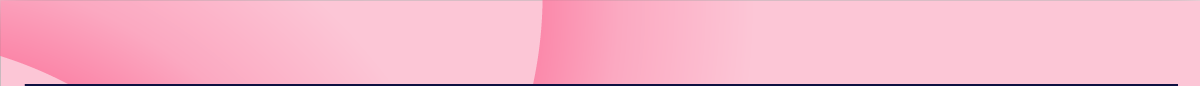
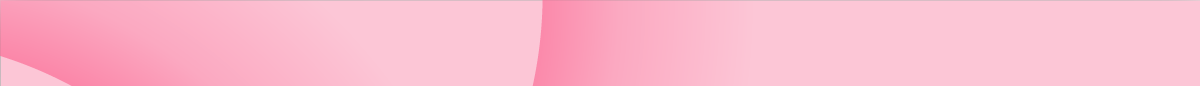
Gmail

Changed region(s): [[0.0, 0.9767, 0.9867, 1.0]]

diff --git a/dia-mujer/dia-mujer.html b/dia-mujer/dia-mujer.html
@@ -8,16 +8,13 @@
 
     <link rel="preconnect" href="https://fonts.googleapis.com">
     <link rel="preconnect" href="https://fonts.gstatic.com" crossorigin>
-    <link
-        href="https://fonts.googleapis.com/css2?family=Lato:ital,wght@0,100;0,300;0,400;0,700;0,900;1,100;1,300;1,400;1,700;1,900&display=swap"
-        rel="stylesheet">
+    <link href="https://fonts.googleapis.com/css2?family=Lato:ital,wght@0,100;0,300;0,400;0,700;0,900;1,100;1,300;1,400;1,700;1,900&display=swap" rel="stylesheet">
 
     <title>Día de la Mujer</title>
     <style>
         @media (prefers-color-scheme: light) {
             body {
                 background-color: #ffffff;
-                /* Color de fondo para el modo claro */
             }
 
             a {
@@ -27,16 +24,12 @@
             p {
                 color: #0F1141;
                 font-family: 'Lato', sans-serif;
-                /* Color de texto para el modo claro */
             }
-
-            /* Agrega otros estilos específicos para el modo claro aquí */
         }
 
         @media (prefers-color-scheme: dark) {
             body {
                 background-color: #333333;
-                /* Color de fondo para el modo oscuro */
             }
 
             a {
@@ -46,15 +39,11 @@
             p {
                 color: #ffffff;
                 font-family: 'Lato', sans-serif;
-                /* Color de texto para el modo oscuro */
             }
-
-            /* Agrega otros estilos específicos para el modo oscuro aquí */
         }
 
         .header {
-            background: url(https://raw.githubusercontent.com/mercadeoBP/mails/main/dia-mujer/src/BgHeader.png) no-repeat center center;
-            background-size: 100% auto;
+            position: relative;
             padding: 10px 20px;
             font-family: 'Lato', sans-serif;
         }
@@ -78,11 +67,43 @@
             font-size: 13px;
             font-weight: 600;
         }
+
         .footer {
-            background: url(https://raw.githubusercontent.com/mercadeoBP/mails/main/dia-mujer/src/BgFooter.png);
-            background-size: cover;
-            padding: 50px 20px 20px 10px;
+            position: relative;
+            padding: 0px 20px 20px 10px;
             font-family: 'Lato', sans-serif;
+            top: -120px;
+        }
+
+        .bg-header img {
+            display: block;
+            width: 100%;
+            height: auto;
+        }
+
+        .bg-footer img {
+            display: block;
+            width: 100%;
+            height: auto;
+        }
+
+        .content {
+            position: relative;
+            z-index: 1;
+        }
+
+        .header-container,
+        .footer-container {
+            position: relative;
+        }
+
+        .header-content,
+        .footer-content {
+            position: absolute;
+            top: 15px;
+            left: 0;
+            width: 100%;
+            z-index: 2;
         }
     </style>
 </head>
@@ -92,27 +113,37 @@
         <!-- Header -->
         <tr>
             <td colspan="2" class="header">
-                <table cellpadding="0" cellspacing="0" width="100%">
-                    <tr>
-                        <td width="50%" align="left" class="logo-header">
-                            <img src="https://raw.githubusercontent.com/mercadeoBP/mails/main/dia-mujer/src/LogoHeader.png" alt="Logo">
-                        </td>
-                        <td width="50%" align="right" class="slogan">
-                            <p>Un amor único</p>
-                        </td>
-                    </tr>
-                </table>
+                <div class="header-container">
+                    <div class="header-content">
+                        <table cellpadding="0" cellspacing="0" width="100%">
+                            <tr>
+                                <td width="50%" align="left" class="logo-header">
+                                    <img src="https://raw.githubusercontent.com/mercadeoBP/mails/main/dia-mujer/src/LogoHeader.png" alt="Logo">
+                                </td>
+                                <td width="50%" align="right" class="slogan">
+                                    <p>Un amor único</p>
+                                </td>
+                            </tr>
+                        </table>
+                    </div>
+                </div>
+            </td>
+        </tr>
+        <!-- Header Background -->
+        <tr>
+            <td class="bg-header" style="padding: 0;">
+                <img src="https://raw.githubusercontent.com/mercadeoBP/mails/main/dia-mujer/src/BgHeader.png" alt="Header Background">
             </td>
         </tr>
         <!-- Imagen de encabezado -->
         <tr>
-            <td align="center">
+            <td align="center" class="content">
                 <img src="https://raw.githubusercontent.com/mercadeoBP/mails/main/dia-mujer/src/Encabezado.png" alt="Encabezado" style="width: 100%;">
             </td>
         </tr>
         <!-- Contenido -->
         <tr>
-            <td align="center" style="padding: 0px 20px;">
+            <td align="center" style="padding: 0px 20px;" class="content">
                 <p style="font-size: 18px; line-height: 24px; text-align: center;">En el Día de la Mujer, reconocemos a
                     todas las mujeres valientes y empoderadas que con su fuerza y determinación, impulsan un futuro
                     brillante para quienes las rodean.</p>
@@ -123,41 +154,41 @@
         </tr>
         <!-- Imagen de equipo -->
         <tr>
-            <td align="right">
+            <td align="right" class="content">
                 <img src="https://raw.githubusercontent.com/mercadeoBP/mails/main/dia-mujer/src/EquipoBayport.png" alt="Segunda imagen" style="width: 50%;">
+            </td>
+        </tr>
+        <!-- Footer Background -->
+        <tr>
+            <td class="bg-footer" style="padding: 0;">
+                <img src="https://raw.githubusercontent.com/mercadeoBP/mails/main/dia-mujer/src/BgFooter.png" alt="Footer Background">
             </td>
         </tr>
         <!-- Footer -->
         <tr>
             <td align="center" class="footer">
-                <table cellpadding="0" cellspacing="0" width="100%">
-                    <tr>
-                        <td width="50%" align="left">
-                            <a href="http://www.bayportcolombia.com"
-                                style="text-decoration: none; color: inherit; padding-left: 20px; font-weight: 700;">www.bayportcolombia.com</a>
-                        </td>
-                        <td width="50%" align="right">
-                            <a href="https://www.facebook.com/bayportcolombia/" style="text-decoration: none; color: inherit; margin-right: 5px;"><img
-                                    src="https://raw.githubusercontent.com/mercadeoBP/mails/main/dia-mujer/src/Facebook.png" alt="Facebook" style="width: 35px;"></a>
-                            <a href="https://twitter.com/BayportColombia" style="text-decoration: none; color: inherit; margin-right: 5px;"><img
-                                    src="https://raw.githubusercontent.com/mercadeoBP/mails/main/dia-mujer/src/X.png" alt="Facebook" style="width: 35px;"></a>
-                            <a href="https://www.instagram.com/bayportcolombia/" style="text-decoration: none; color: inherit; margin-right: 5px;"><img
-                                    src="https://raw.githubusercontent.com/mercadeoBP/mails/main/dia-mujer/src/Instagram.png" alt="Instagram" style="width: 35px;"></a>
-                            <a href="https://www.linkedin.com/company/bayportcolombia/mycompany/verification/" style="text-decoration: none; color: inherit; margin-right: 5px;"><img
-                                    src="https://raw.githubusercontent.com/mercadeoBP/mails/main/dia-mujer/src/Linkedin.png" alt="LinkedIn" style="width: 35px;"></a>
-                            <a href="https://www.youtube.com/channel/UCXYKv8n8RsPqKlxxC6bT2Xw" style="text-decoration: none; color: inherit; margin-right: 5px;"><img
-                                    src="https://raw.githubusercontent.com/mercadeoBP/mails/main/dia-mujer/src/Youtube.png" alt="YouTube" style="width: 35px;"></a>
-                        </td>
-                    </tr>
-                </table>
-                <hr style="margin-top: 20px; border: 1px solid #ddd; width: 85%;">
-                <p style="font-size: 12px; text-align: center; margin-top: 10px;">© Bayport Colombia S.A. Todos los
-                    derechos reservados</p>
+                <div class="footer-container">
+                    <div class="footer-content">
+                        <table cellpadding="0" cellspacing="0" width="100%">
+                            <tr>
+                                <td width="50%" align="left">
+                                    <a href="http://www.bayportcolombia.com" style="text-decoration: none; color: inherit; padding-left: 20px; font-weight: 700;">www.bayportcolombia.com</a>
+                                </td>
+                                <td width="50%" align="right">
+                                    <a href="https://www.facebook.com/bayportcolombia/" style="text-decoration: none; color: inherit; margin-right: 5px;"><img src="https://raw.githubusercontent.com/mercadeoBP/mails/main/dia-mujer/src/Facebook.png" alt="Facebook" style="width: 35px;"></a>
+                                    <a href="https://twitter.com/BayportColombia" style="text-decoration: none; color: inherit; margin-right: 5px;"><img src="https://raw.githubusercontent.com/mercadeoBP/mails/main/dia-mujer/src/X.png" alt="Facebook" style="width: 35px;"></a>
+                                    <a href="https://www.instagram.com/bayportcolombia/" style="text-decoration: none; color: inherit; margin-right: 5px;"><img src="https://raw.githubusercontent.com/mercadeoBP/mails/main/dia-mujer/src/Instagram.png" alt="Instagram" style="width: 35px;"></a>
+                                    <a href="https://www.linkedin.com/company/bayportcolombia/mycompany/verification/" style="text-decoration: none; color: inherit; margin-right: 5px;"><img src="https://raw.githubusercontent.com/mercadeoBP/mails/main/dia-mujer/src/Linkedin.png" alt="LinkedIn" style="width: 35px;"></a>
+                                    <a href="https://www.youtube.com/channel/UCXYKv8n8RsPqKlxxC6bT2Xw" style="text-decoration: none; color: inherit; margin-right: 5px;"><img src="https://raw.githubusercontent.com/mercadeoBP/mails/main/dia-mujer/src/Youtube.png" alt="YouTube" style="width: 35px;"></a>
+                                </td>
+                            </tr>
+                        </table>
+                        <hr style="margin-top: 20px; border: 1px solid #ddd; width: 85%;">
+                        <p style="font-size: 12px; text-align: center; margin-top: 10px;">© Bayport Colombia S.A. Todos los derechos reservados</p>
+                    </div>
+                </div>
             </td>
         </tr>
-    </table>
-    </td>
-    </tr>
     </table>
 </body>
 
